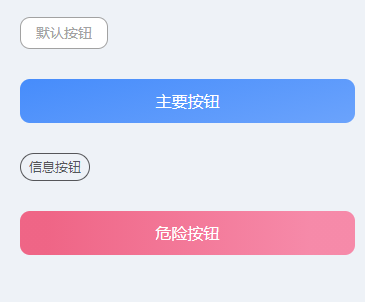
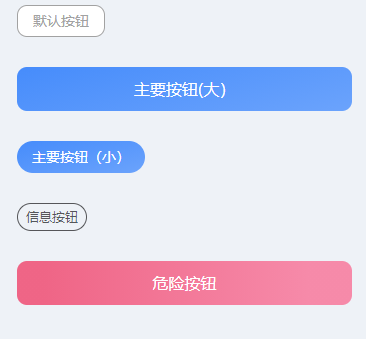
docs: 文档更新

diff --git a/docs/components/van-button.md b/docs/components/van-button.md
@@ -3,7 +3,9 @@
 ```html
 <van-button type="default">默认按钮</van-button>
 
-<van-button type="primary" block size="large">主要按钮</van-button>
+<van-button type="primary" block size="large">主要按钮(大）</van-button>
+
+<van-button type="primary" round>主要按钮（小）</van-button>
 
 <van-button type="info" plain round size="small">信息按钮</van-button>
 
